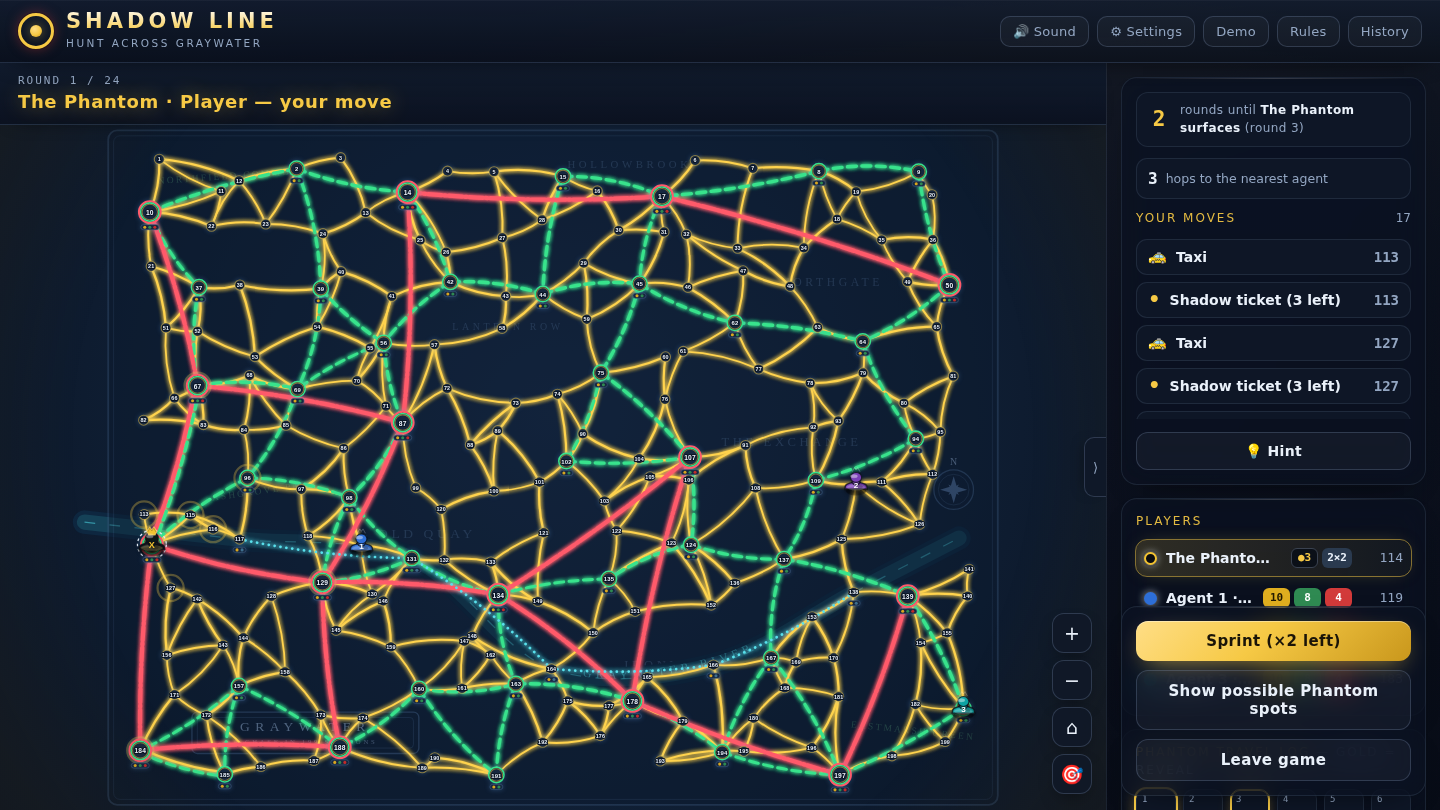
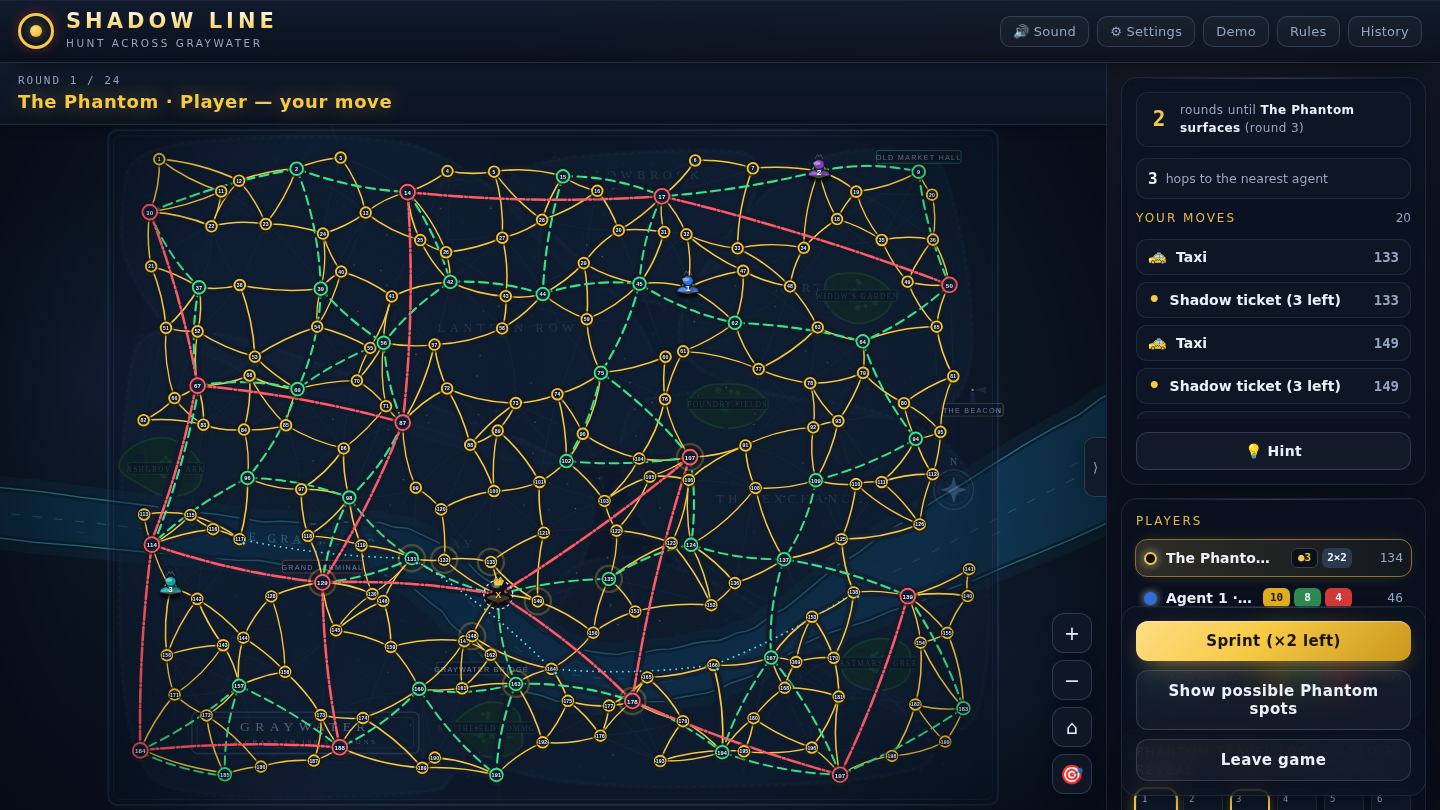
chore(map): regenerate screenshots for the illustrated board; update HANDOFF
Full verification after the rework: 4000-game sim invariants hold, all
30 Playwright specs pass (including the Phase 4 cloud specs and hot-seat
flow) — no game-logic or auth/sync regressions.

Claude-Session: https://claude.ai/code/session_01JjrPDo9jkcMGLPdyk47JcQ

Changed region(s): [[0.0625, 0.1852, 0.75, 0.9877], [0.0312, 0.6481, 0.0625, 0.679]]

diff --git a/HANDOFF.md b/HANDOFF.md
@@ -3,7 +3,7 @@
 Companion to `PLAN.md` (the phased roadmap). This file is updated after every
 commit so any session/model can resume with zero context loss.
 
-_Last updated: 2026-07-22 (session 2), branch `claude/work-hhvy7e`. PRs #50–#52 merged (Phases 0–3)._
+_Last updated: 2026-07-22 (session 2), branch `claude/work-hhvy7e`. PRs #50–#53 merged (Phases 0–4). Map visual rework done on top._
 
 ## What's done
 
@@ -54,6 +54,18 @@ _Last updated: 2026-07-22 (session 2), branch `claude/work-hhvy7e`. PRs #50–#5
   replay logs stay device-local; lobby name now persisted locally too.
   Two Playwright specs cover dormant boot and stubbed sign-in/merge
   (suite now 30).
+- **Map visual rework: DONE** (user-requested detour; see
+  `MAP-REWORK-PLAN.md`). New `mapart.js` draws an illustrated Graywater
+  night city beneath the untouched station graph: land, river+harbor from
+  the ferry line, six district regions with integrated labels, computed
+  parks, a minor-street mesh, asphalt road casings under every route
+  (crossings read as bridges), seeded window-lit building blocks, and
+  original landmarks (Graywater Bridge, The Beacon, Grand Terminal, Old
+  Market Hall). Routes are thin lane markings now (no neon filter);
+  stations are ring-pin badges colored by best transport with a ferry pip.
+  The six selectable board modes were retired for this one style. All
+  deterministic (fixed seed), no SVG filters on large layers, base drawn
+  once — pan/zoom stays a single viewBox write.
 
 ## Verified
 
@@ -62,7 +74,8 @@ _Last updated: 2026-07-22 (session 2), branch `claude/work-hhvy7e`. PRs #50–#5
 
 ## What's NOT done yet (in phase order — see PLAN.md for detail)
 
-1. Phase 5 (next) — ads (AdSense web / AdMob native) + remove-ads IAP,
+1. Phase 5 (next — was about to start when the map rework was requested) —
+   ads (AdSense web / AdMob native) + remove-ads IAP,
    gated everywhere behind `cloudNoAds()` / a local purchase cache; all IDs
    in a documented `monetization-config.js` with placeholders.
 2. Phase 6 — PWA audit, Capacitor Android/iOS, STORE-CHECKLIST.md.